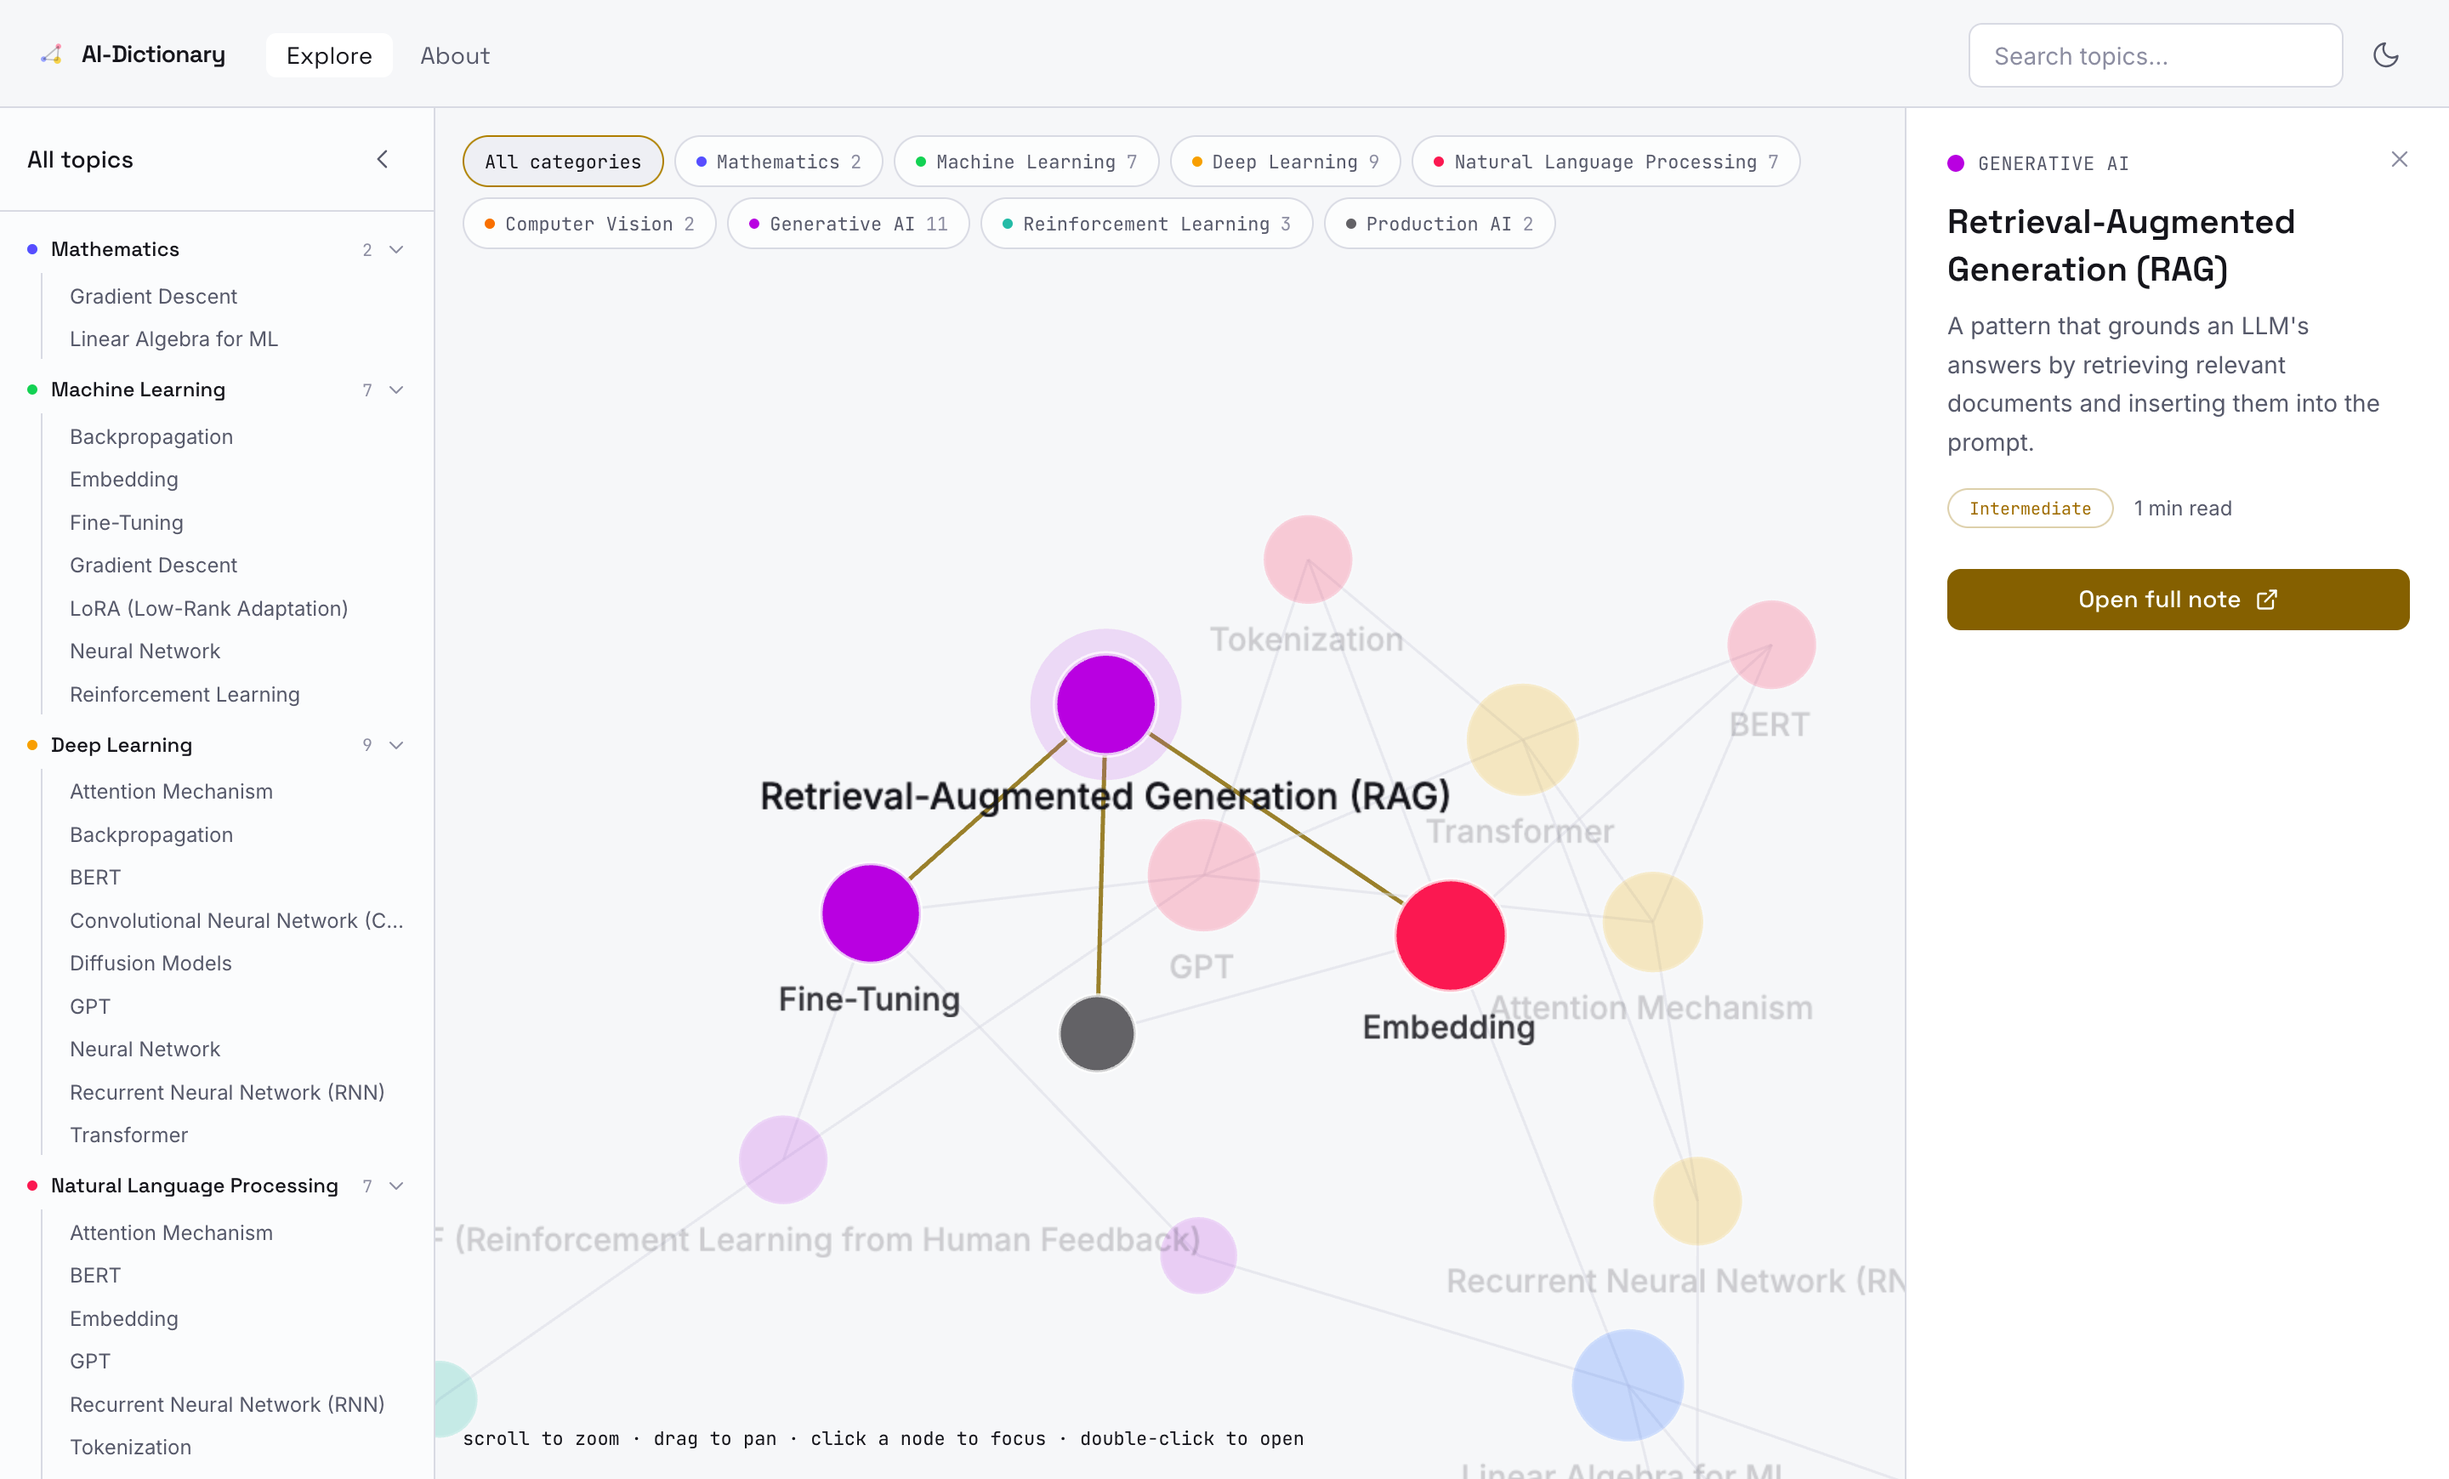
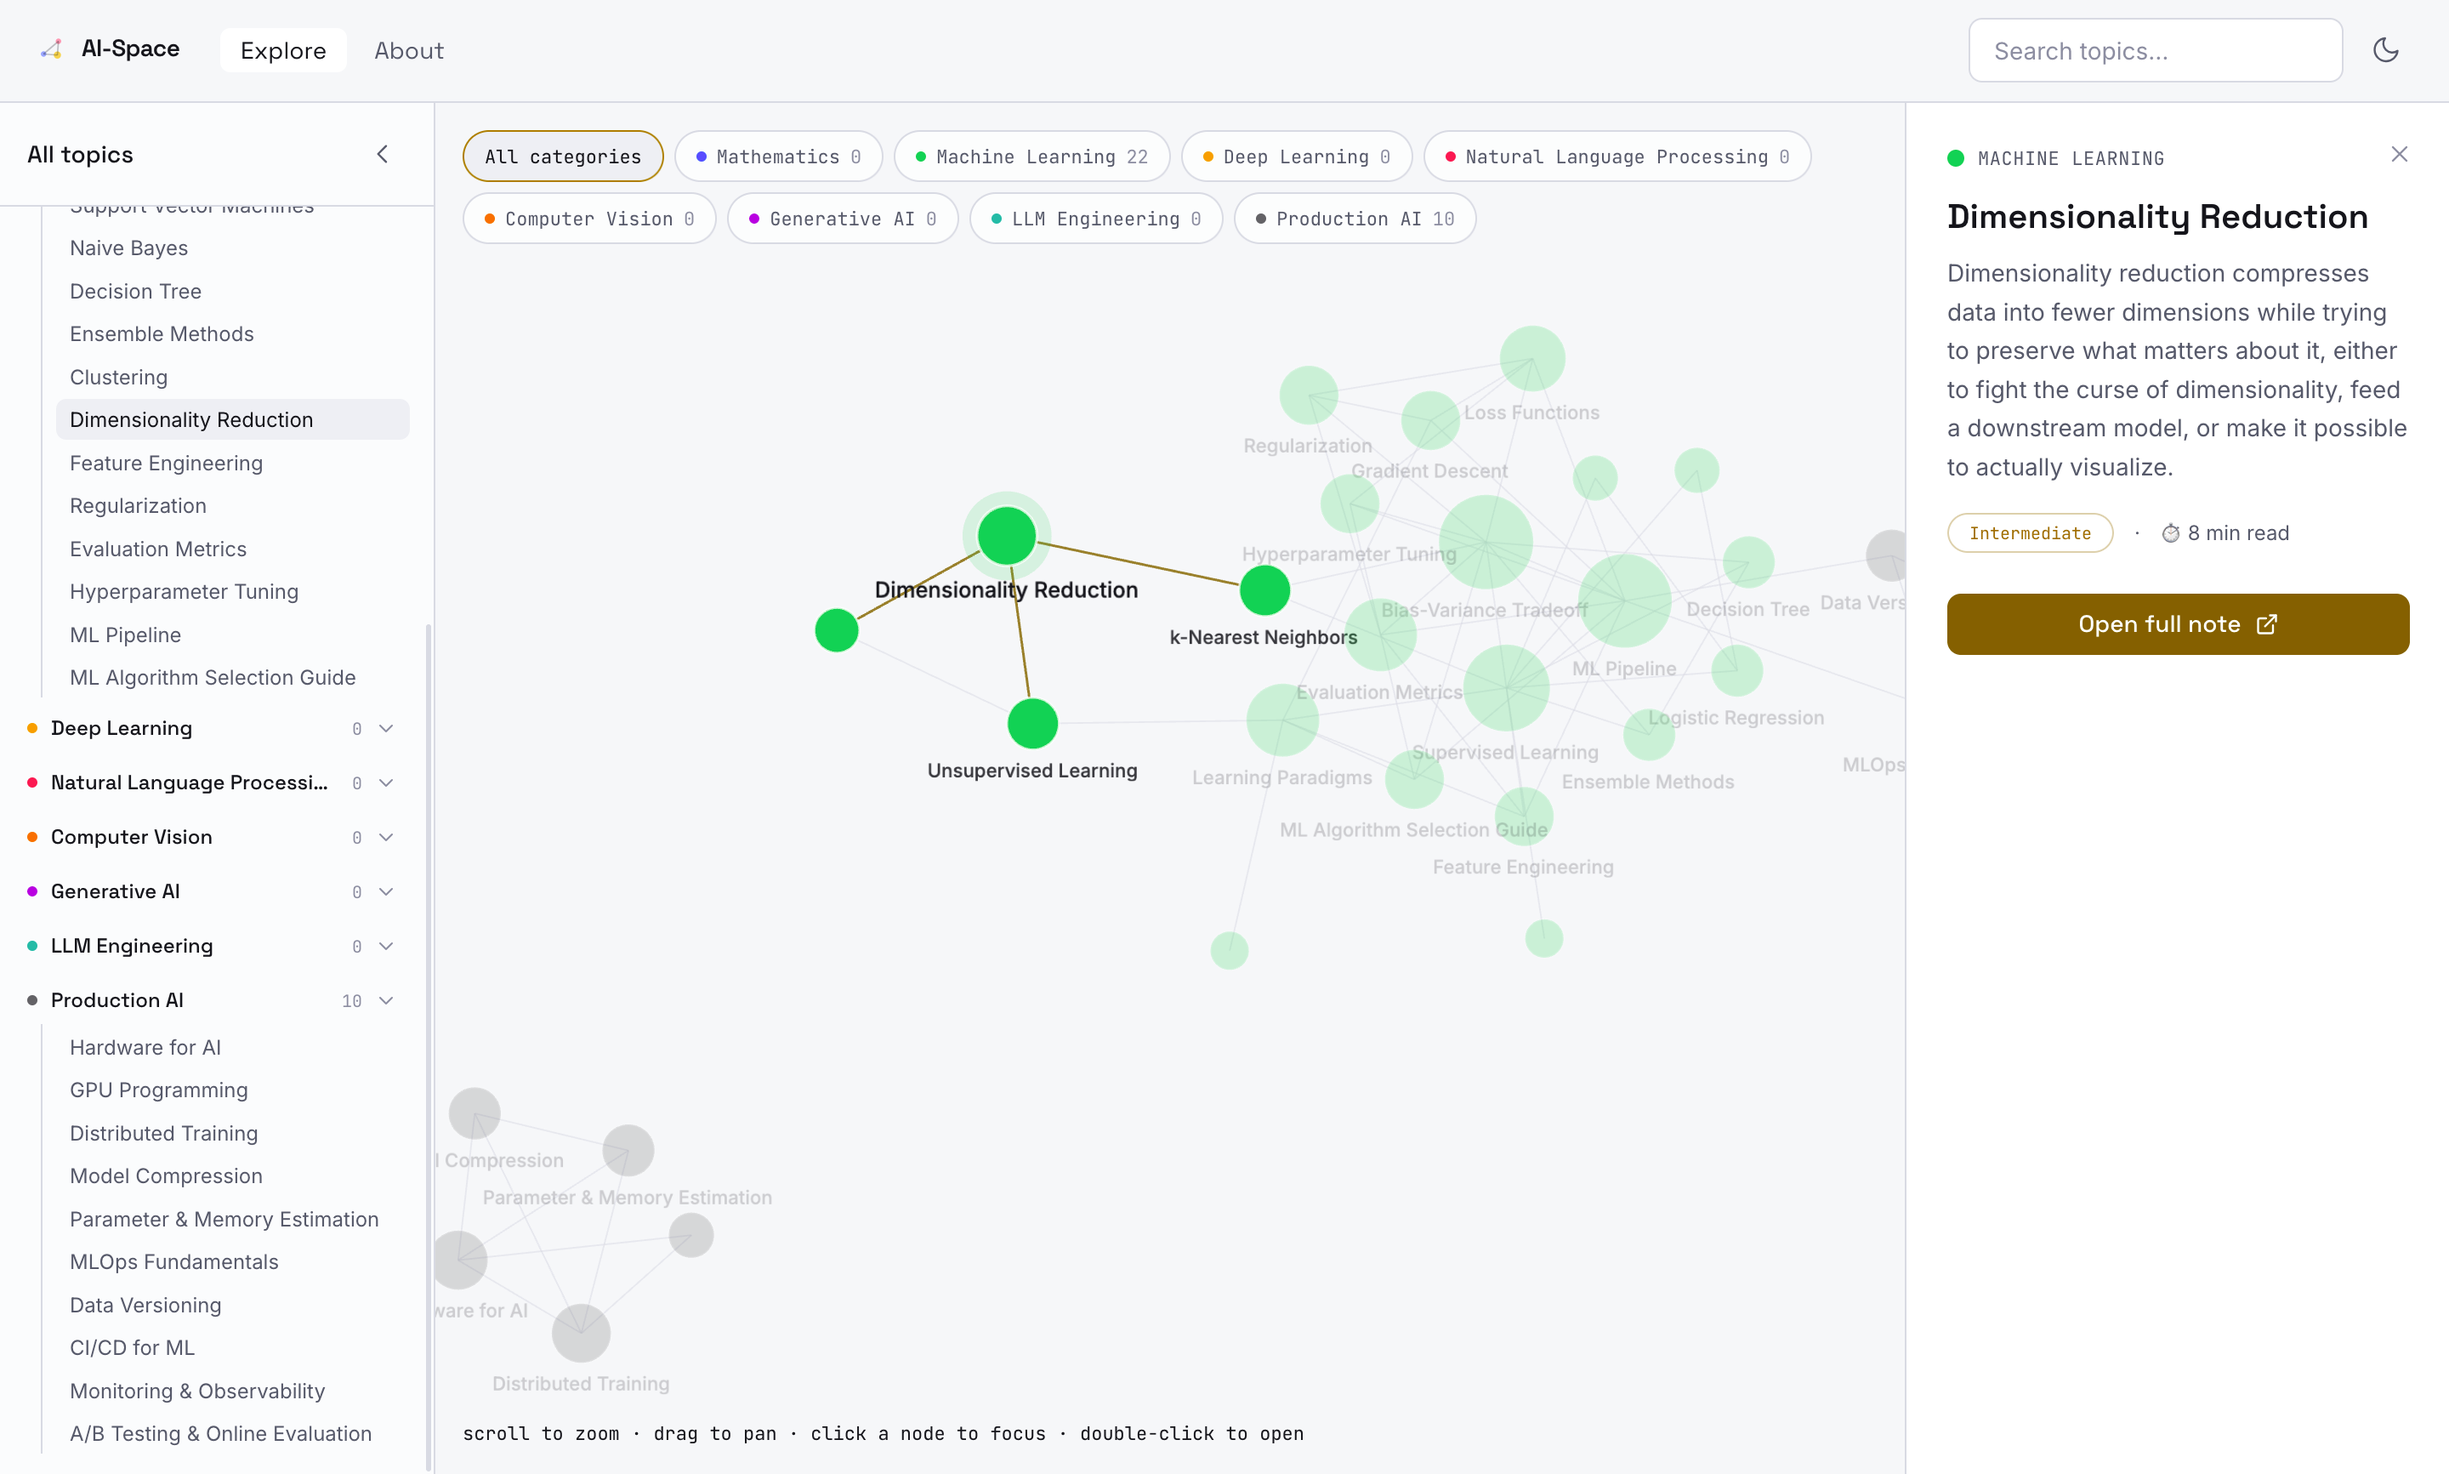
chore: change website cover photo

diff --git a/index.html b/index.html
@@ -11,7 +11,7 @@
       href="https://fonts.googleapis.com/css2?family=Space+Grotesk:wght@400;500;600;700&family=Inter:wght@400;500;600&family=JetBrains+Mono:wght@400;500&display=swap"
       rel="stylesheet"
     />
-    <title>An Interactive AI Dictionary</title>
+    <title>An Interactive AI Space</title>
   </head>
   <body>
     <div id="root"></div>
